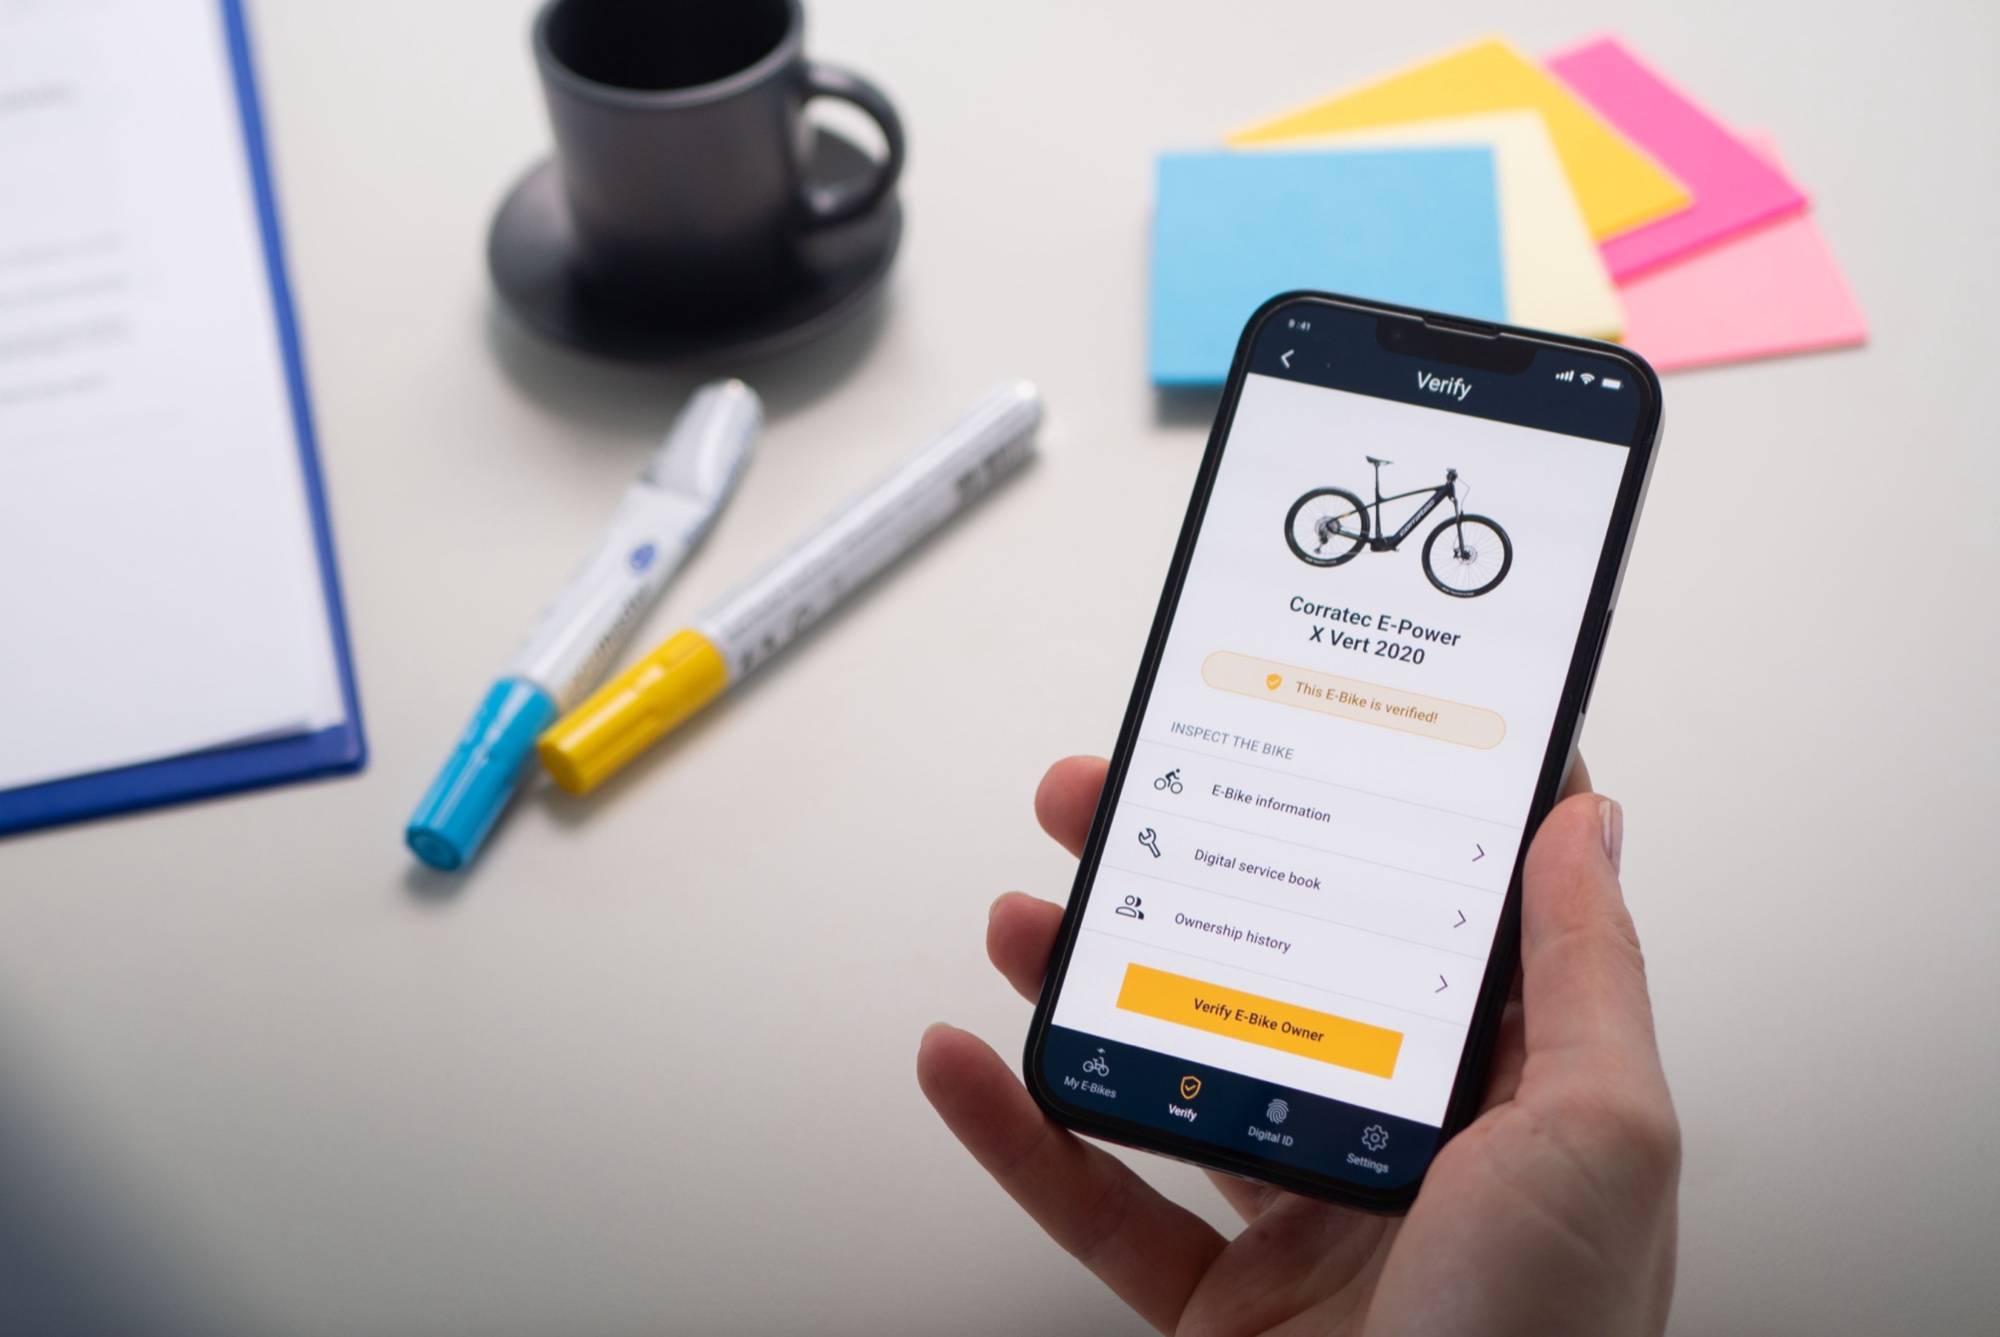
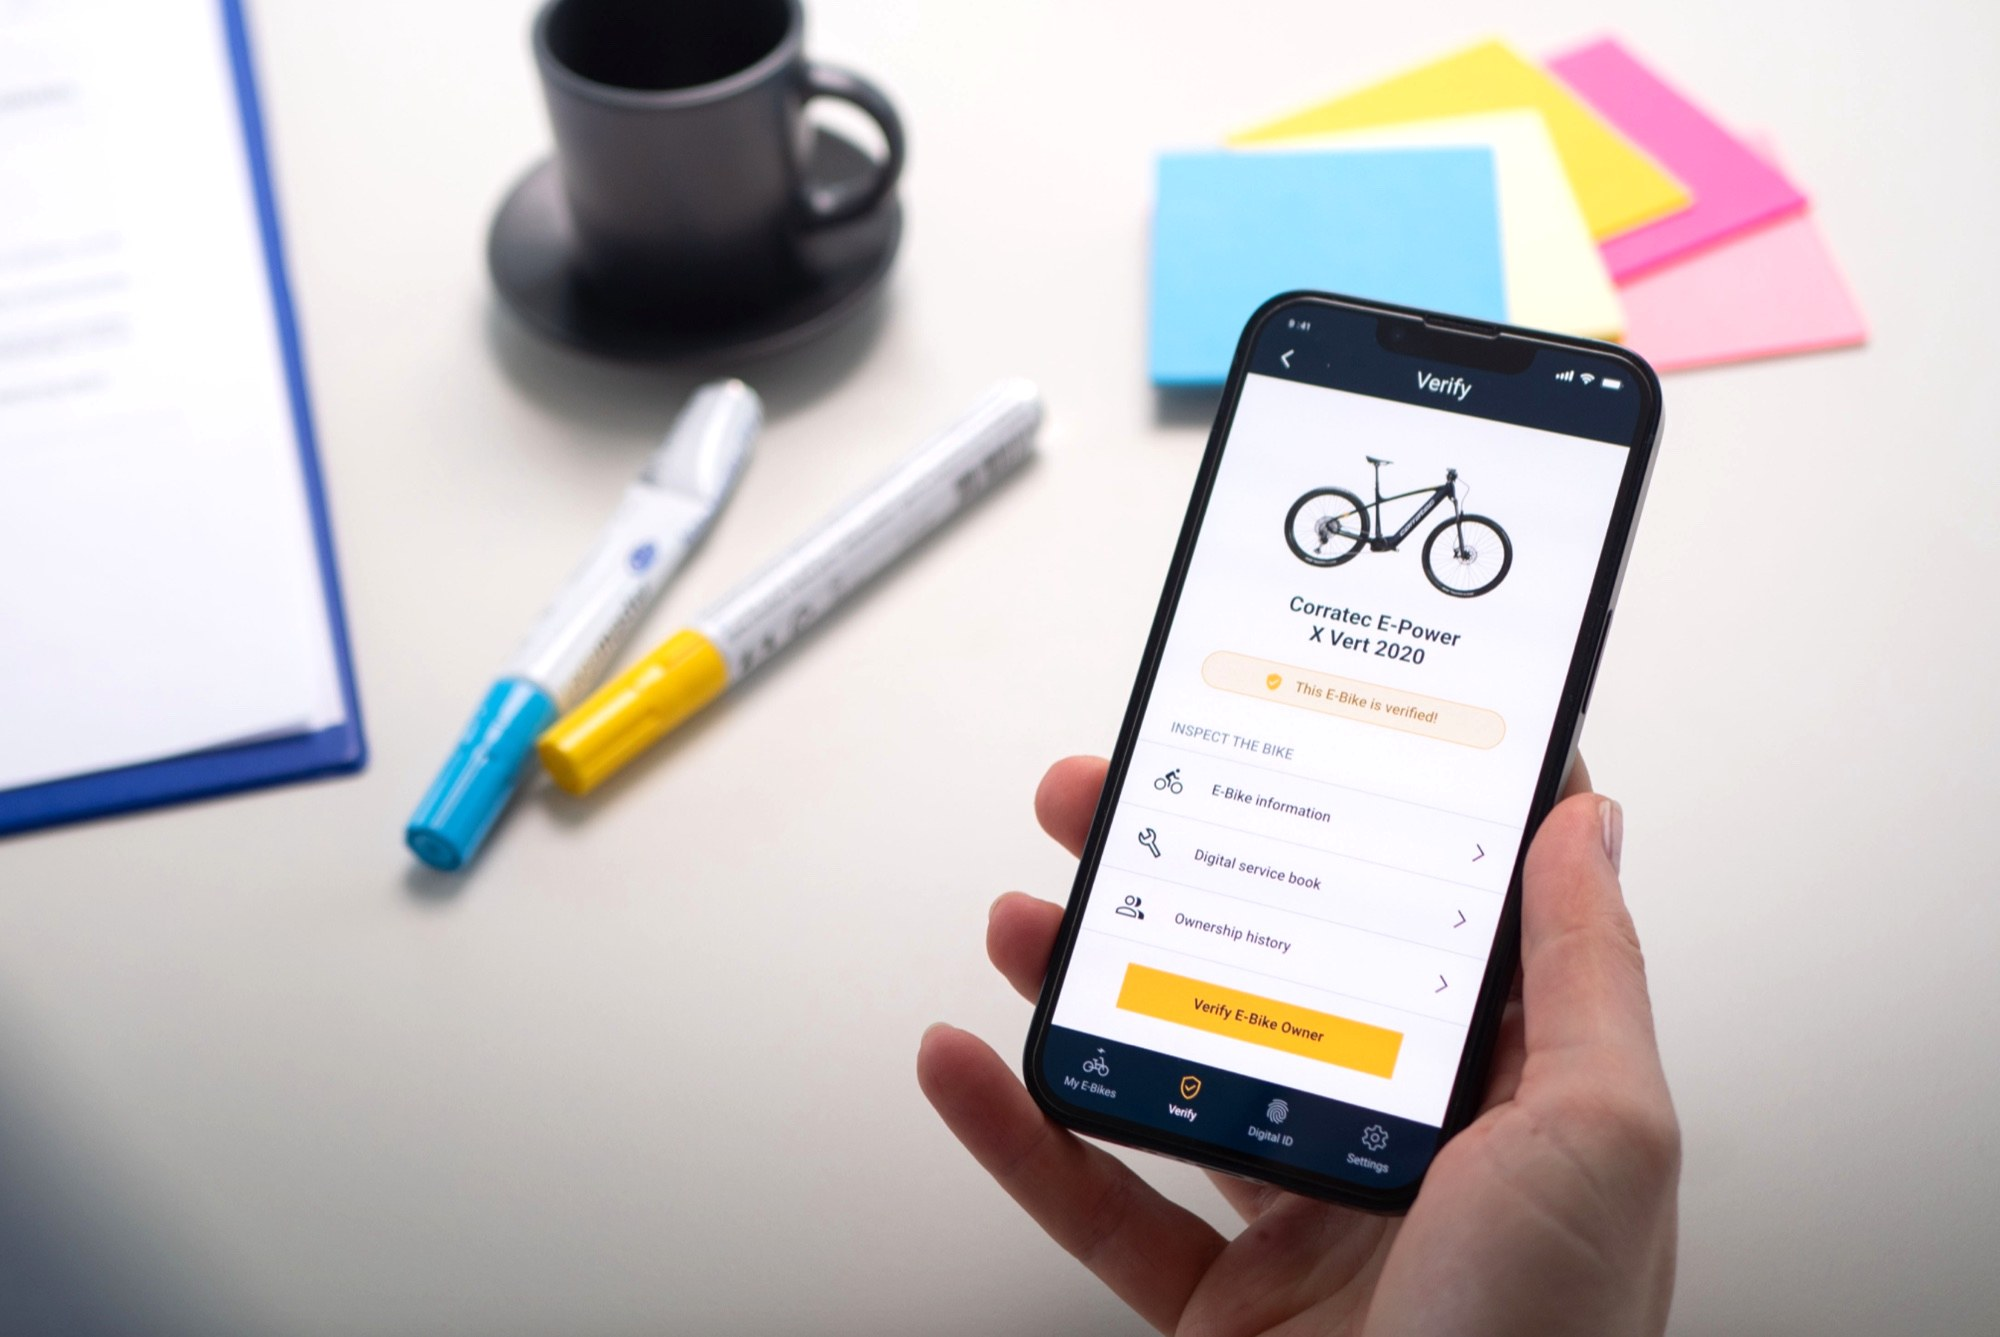
project-3: drop the runtime brightness filter, add paint containment
- Bake the +10% brightness for the Define and Test photos into the JPEGs
  with Pillow and remove the .img-brighten CSS filter, so scrolling no
  longer composites those two full-width images through a filter layer
- Give each .alt-scroll-item `contain: layout paint` so a scroll repaint
  is scoped to the item that changed rather than the whole strip (no size
  containment, so the snap measurements stay exact)

Claude-Session: https://claude.ai/code/session_011UYFpTWaEmYhzFqviExya5

diff --git a/project-3.html b/project-3.html
@@ -107,7 +107,7 @@
           </p>
         </div>
       <div class="alt-scroll-item" data-index="2">
-        <img loading="lazy" decoding="async" class="img-brighten" src="images/project-3/project-3-8.jpg" alt="Chain²Bike: Define" />
+        <img loading="lazy" decoding="async" src="images/project-3/project-3-8.jpg" alt="Chain²Bike: Define" />
       </div>
       <div class="alt-text-panel" data-panel="2">
           <span class="alt-panel-label" data-en="02 Define" data-de="02 Definition">02 Define</span>
@@ -129,7 +129,7 @@
           </p>
         </div>
       <div class="alt-scroll-item" data-index="4">
-        <img loading="lazy" decoding="async" class="img-brighten" src="images/project-3/project-3-9.jpg" alt="Chain²Bike: Test" />
+        <img loading="lazy" decoding="async" src="images/project-3/project-3-9.jpg" alt="Chain²Bike: Test" />
       </div>
       <div class="alt-text-panel" data-panel="4">
           <span class="alt-panel-label" data-en="04 Test" data-de="04 Test">04 Test</span>

diff --git a/project.css b/project.css
@@ -219,9 +219,11 @@
   height: auto;
 }
 
-/* Lift a few slightly underexposed case-study photos */
-.img-brighten {
-  filter: brightness(1.1);
+/* Give each image-strip item its own layout/paint scope so scrolling only
+   repaints the item that changed, not the whole strip. No size containment,
+   so measured positions and page height stay exact for the snap logic. */
+.alt-scroll-item {
+  contain: layout paint;
 }
 
 /* SOLUTION / IMPACT TEXT SECTIONS */
